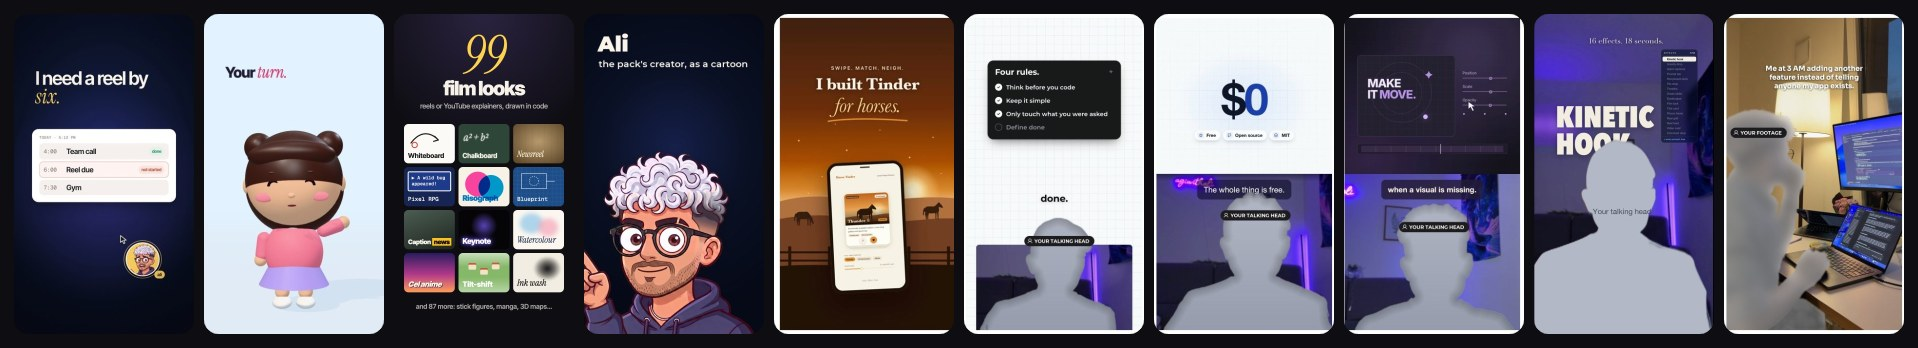
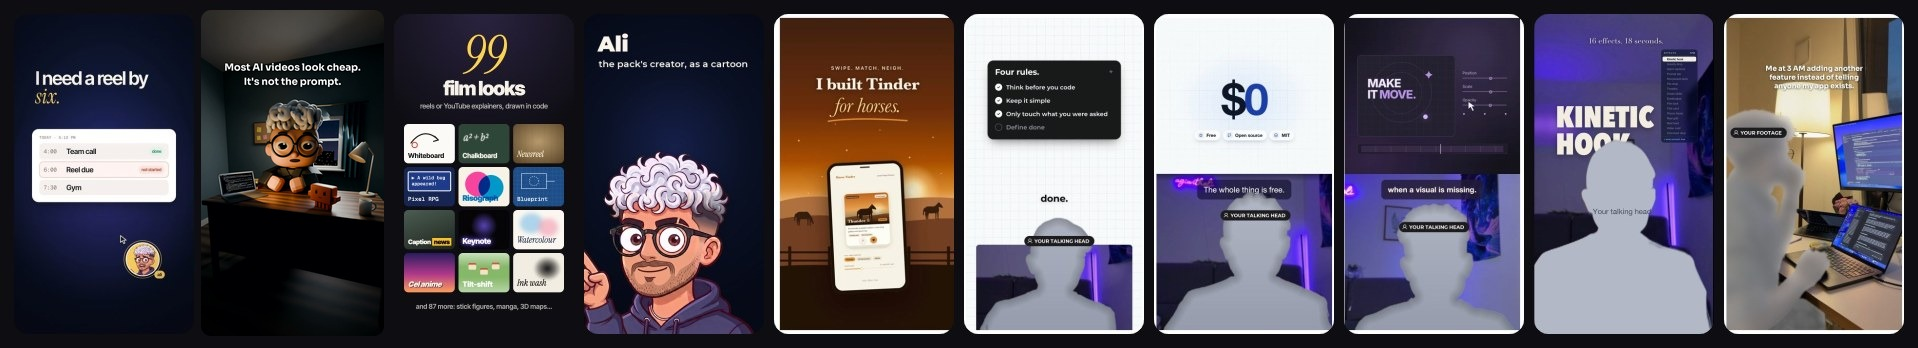
Add the blender-director style, the Blender sitcom in the hero, and the creator-loop graphic
- skills/3-styles-characters/blender-director: direct a narrated 3D episode in Blender from code
  (voices and timeline, lip sync, cameras on words, dark finished lighting, wireframe reveals,
  Cycles settings and timing, sound on the frame). Tile, README cell, example prompt, manifest,
  validator and test shelf; install guide notes Blender 4.2+ (optional).
- Hero: the second tile is now a frame of the Blender sitcom episode made with this skill.
- FavStash section: a 'Complete your loop' graphic (Save, Edit, Post, Learn) and call to action.

Changed region(s): [[0.0923, 0.0287, 0.2153, 0.977]]

diff --git a/skills/3-styles-characters/blender-director/SKILL.md b/skills/3-styles-characters/blender-director/SKILL.md
@@ -1,0 +1,180 @@
+---
+name: blender-director
+description: "Style for edit-video, or on its own: direct a narrated 3D episode in Blender from a script, the way a real two-character sitcom was made entirely in code. Covers the voice pass and timeline, lip sync, set and character staging, cameras that cut on words, dark finished lighting, wireframe reveals, Cycles render settings and timing, and sound that lands on the frame. Needs Blender 4.2 or newer (free). Use when someone wants an animated scene, sitcom episode or character reel made with Blender, or asks how to make AI 3D videos that don't look cheap."
+---
+
+# Blender director
+
+You are the director, the 3D artist and the editor. Every frame is built by a Python script you write and Blender renders. Nothing is generated by a video model, so you control every shot.
+
+The order below is the order that worked. Don't skip ahead to rendering: most of the quality comes from steps 1 to 6.
+
+Target: Blender 4.2 to 4.5, headless (`blender -b --python build.py -- --build`). One build script stages and animates the whole episode from its source files, so any change is a rebuild, not a hand edit.
+
+## 1. Script for the ear, then the eye
+
+- Short lines, one idea each. Two characters trading lines beat one narrator: give the viewer's own question to one character and the answer to the other.
+- Write the delivery next to every line, as a short tag ("[deadpan]", "[alarmed, one word]"). TTS engines read these tags.
+- Mark the one word per line the picture will react to (a cut, a light, a prop). Those words become your timing anchors.
+
+## 2. The voice pass
+
+- Make one TTS take per line, never the whole script in one go: a bad line is then a cheap retake.
+- **Check every take by transcribing it** (Whisper or similar) and comparing the words to the script. TTS doubles words, drops "-ed" and mangles names. Retake until it matches.
+- Spell names the way they should sound in the TTS text, and keep the real spelling in the captions.
+
+## 3. The timeline: place, don't stretch
+
+- Trim each take to its speech and match loudness across lines.
+- Place the lines on a timeline with designed gaps: a long gap before a punchline's reaction, a short one in rapid back-and-forth. **Never time-stretch a voice.**
+- Get word timings from the transcription. Every animation cue keys off them: `W(line, "word")` returns the time a word starts.
+- Save `timeline.json` (lines, words, durations, events). The set, the cameras, the music and the captions all read this one file.
+
+## 4. Lip sync and acting
+
+- **Visemes from letters:** spread each word's letters evenly across its duration and map them to a few mouth shapes:
+
+  | Shape | Letters |
+  |---|---|
+  | AH | a |
+  | EH | e, i, y and most consonants |
+  | OO | o, u, w |
+  | FV | f, v |
+  | MB | m, b, p |
+  | REST | silence |
+
+  Hold each shape for at least two frames, or the mouth flickers.
+- **Look targets:** the listener looks at the speaker, then at whatever the line is about. Smooth head turns by easing toward the target a fifth of the way each frame.
+- **Expressions on beats:** a raised brow on a question, a worried look on bad news, deadpan on the dry line. Switch about 0.1 s before the word.
+- **Blinks** come every 2.4 to 4.2 s from a seeded random generator, so a rebuild gives the same blinks. Never blink mid-word.
+- **Motion:** anticipation before a hop, then a sine arc up and down. Small talking nods while speaking. Nothing starts or stops instantly.
+
+## 5. Set and characters
+
+- Reuse a character kit `.blend` (rigged characters, mouth shapes, expression controls) across episodes. Never edit the kit file: change things in the episode file only.
+- **Fit a set to the characters, not the other way round.** If a set was built at real scale and the kit isn't, append the whole set under one empty and give it a single matrix: translate, then scale (match the desk height), then translate. Never rescale a rig.
+- After appending objects from another file, read their transform from `matrix_basis`. Their `matrix_world` is stale until the scene updates.
+- Clear the spots where the hands and props go: move anything that lands on the laptop or between a character and the camera. Add a front panel under the desk so short legs don't show.
+- **Lived-in beats tidy:** a window with a city at night, a lamp, a mug, books, a cork board and a curtain. Leave space around the faces.
+
+## 6. Cameras: cut on words
+
+- **Make a shot list from the timeline:**
+  - a two-shot to open
+  - a close-up of the speaker on each line
+  - the listener's face for the reaction
+  - a wide shot for a reveal
+  - an insert of the screen or prop when the line names it
+- Cut on spoken words, roughly every 2 to 3 s, about 0.08 s before the line starts.
+- **Movement:**
+  - Every shot pushes in slowly, 5 to 10 % of the distance over its length.
+  - Use one fast, eased push (ease-out cubic) for an emphasis word.
+  - Cameras that track a head aim at the eyes, smoothed so they don't jitter.
+- **Depth of field on every shot**, focused on whoever the shot is about: f/1.6 to f/2 for close-ups, about f/3 for wide shots. If your units are bigger than metres, open the aperture to compensate.
+- Keep camera positions new per episode. Reused angles make platforms flag the video as a duplicate.
+
+## 7. Light: dark and finished, never flat
+
+- **Start from darkness.** Keep a dark room and a dim world, and add motivated light only:
+  - **key:** a warm, soft practical (laptop or desk lamp) on the faces, around 3400 K
+  - **rim:** a cool light from the window behind, around 9000 K, so heads separate from the wall
+  - **hair:** a soft top light from above and behind, which makes hair read (silver hair especially)
+  - **room fill:** about a third of the key, or nothing at all
+- Practicals glow: give the lamp, the screen and the bulbs emission, plus a small light next to each so they really light the set.
+- Colour management: AgX with the Medium High Contrast look and a low exposure (around 0.15 to 0.45). If a test render looks like daytime, remove lights instead of lowering exposure.
+- Keep materials matte with subtle variation. Give skin a little subsurface. Black clothes need no sheen: sheen turns black cloth grey.
+
+## 8. The moves only 3D can do
+
+These are what prove the video is a real 3D scene, not a filter:
+
+- **Wireframe reveal:**
+  - Add a Wireframe modifier (`use_replace=True`) and append an emissive material slot. Set `material_offset` to point at it.
+  - Key `show_render` on and off on the beat.
+  - Make the wire thickness grow with distance, so far objects still read.
+  - Hide curves and very dense meshes (hair fuzz) for that window instead of wiring them.
+  - Snap everything back on one beat.
+- **Light dip:** on the word "light", drop every light and the world strength to 7 % for a third of a second, then relight over half a second.
+- **Prop pop:** scale from 0 with a 12 % overshoot over 0.22 s, a gentle float while it's up, then shrink away.
+
+## 9. Render
+
+- **Storyboard first:** render one draft frame per shot, plus the key beats, at half size. Fix framing there, not in the full render.
+- **Cycles for the finished look:**
+  - GPU, denoising on, adaptive sampling, persistent data on (it skips rebuilding the scene every frame).
+  - **Layered hair and fur shells need `transparent_max_bounces` of 64 to 128.** At the default of 8, rays die inside the hair and it renders dark and speckled.
+- **Time it before you commit:**
+  - Render two full-size frames at 16 and 32 samples. Use the hardest shot, the close-up on hair.
+  - With denoising they usually look the same, and 16 to 20 samples halves the render.
+- **Draft, then final:**
+  - Draft the whole episode at half size and 6 samples, and get the edit approved on that.
+  - Then render the final at full size.
+- **Render to a numbered PNG sequence with overwrite off**, so a crash or a reboot resumes where it stopped. When one late line changes:
+  1. Rebuild the scene.
+  2. Move the frames after the change aside.
+  3. Re-render only the tail.
+  4. Check that one re-rendered frame from before the change matches the original.
+- Run one heavy render at a time on a laptop. Two in parallel run slower than one after the other and can freeze the machine.
+
+## 10. Sound and finish
+
+- **One short sound per visible event:** a click for a light, a tick for each wireframe, a soft pop for a prop, a plop when someone lands. Place each so its loudest attack hits the frame the event first shows (frame = ceil(time × fps)). No whooshes or thuds under dialogue.
+- **Music bed:** quiet (about −24 dB under speech), ducked under words, lifting a little on the final beat.
+- Normalise to −14 LUFS with true peak under −1.5 dBTP.
+- **Captions:** big (around 72 px), short phrases, top third of the frame, inside the phone's safe area. The first line on screen is the text hook and stays from frame 1.
+- Encode 1080×1920 at 30 fps, H.264 High, Rec.709, AAC 48 kHz. Encode once from a high-quality master, never re-encode an upload file.
+
+## 11. Before you call it done
+
+1. Does every take match its script word for word?
+2. Does every shot cut on a word, with DOF on its subject?
+3. Is the room dark with motivated light, and do faces and hair read?
+4. Does each reveal or effect land on its word, and snap back cleanly?
+5. Does hair render properly (enough transparent bounces)?
+6. Did you watch a full draft before rendering the final?
+7. Does every sound sit on its event frame, at −14 LUFS?
+8. Are the captions inside the safe area, with the hook readable at frame 1?
+
+## Python patterns
+
+```python
+import bpy, math
+from mathutils import Vector
+
+def smooth_piecewise(points, t):
+    """[(time, value), ...] -> eased value at t (smoothstep between keys)."""
+    if t <= points[0][0]: return points[0][1]
+    for (a, va), (b, vb) in zip(points, points[1:]):
+        if a <= t <= b:
+            u = 0 if b == a else (t - a) / (b - a); u = u * u * (3 - 2 * u); return va + (vb - va) * u
+    return points[-1][1]
+
+def wire_reveal(objs, f_on, f_off, wire_mat, eye=Vector((0, -3, 1.8))):
+    """Turn meshes into glowing wire from frame f_on to f_off."""
+    done = set()
+    for o in objs:
+        if o.type != 'MESH': continue
+        me = o.data
+        if me.name not in done: me.materials.append(wire_mat); done.add(me.name)
+        m = o.modifiers.new('wire', 'WIREFRAME'); m.use_replace = True
+        m.thickness = max(.0035, .0022 * (o.matrix_world.translation - eye).length)
+        m.material_offset = len(me.materials) - 1
+        for f, on in ((1, False), (f_on - 1, False), (f_on, True), (f_off, False)):
+            m.show_render = on; o.keyframe_insert('modifiers["wire"].show_render', frame=f)
+        for fc in o.animation_data.action.fcurves:
+            for k in fc.keyframe_points: k.interpolation = 'CONSTANT'
+
+def push_camera(cam, look_at, f0, f1, amount):
+    """Slow push toward the subject over a shot."""
+    base = cam.location.copy(); fwd = (Vector(look_at) - base).normalized()
+    for f in (f0, f1):
+        cam.location = base + fwd * amount * (f - f0) / max(1, f1 - f0); cam.keyframe_insert('location', frame=f)
+    cam.location = base
+
+def cycles(scene, samples=20, percent=100):
+    scene.render.engine = 'CYCLES'; c = scene.cycles
+    c.device = 'GPU'; c.samples = samples; c.use_denoising = True; c.use_adaptive_sampling = True
+    c.transparent_max_bounces = 128   # layered hair/fur shells
+    c.max_bounces = 6; scene.render.use_persistent_data = True
+    scene.render.resolution_x, scene.render.resolution_y, scene.render.resolution_percentage = 1080, 1920, percent
+```

diff --git a/README.md b/README.md
@@ -1,18 +1,18 @@
 # FavStash Creator Skills: find ideas, script, edit and publish short videos with Claude Code or Codex
 
-[![Ten looks, every frame drawn by an agent in code: an animated explainer, a 3D chibi girl, 99 film looks, a cartoon of the pack's creator, a product ad and five talking-head styles](assets/hero-styles.jpg)](#pick-a-style)
+[![Ten looks, every frame drawn by an agent in code: an animated explainer, a 3D Blender sitcom scene, 99 film looks, a cartoon of the pack's creator, a product ad and five talking-head styles](assets/hero-styles.jpg)](#pick-a-style)
 
 **Turn your coding agent into a video studio.** Hand it a script and it makes the whole
 video, in code, on your laptop: a Reel, a TikTok, a Short, or a 16:9 explainer for
 YouTube. **99 film looks** (whiteboard, stick figures, cel anime, manga, newsreel, 3D
-maps, tilt-shift, risograph…), a cute 3D character, a lip-synced cartoon of you, and
+maps, tilt-shift, risograph…), a cute 3D character, a Blender 3D sitcom, a lip-synced cartoon of you, and
 five styles for when you are on camera. No camera needed, no video model, no stock
 footage, no subscription. Free and open source, for Claude Code, Codex or any
 skills-aware agent.
 
 - 🎬 **99 film looks**, each a full style guide: layout, type, motion, camera, sound and what goes on the first frame.
 - 📺 **Reels and YouTube.** Every look comes as a 9:16 reel and a 16:9 explainer in chapters.
-- 🧸 **Characters.** A chibi 3D kid, or a cartoon of you made from a few photos with any image AI.
+- 🧸 **Characters.** A chibi 3D kid, a Blender sitcom your agent directs from a script, or a cartoon of you made from a few photos with any image AI.
 - 🎙 **Free voices.** Your own recording, a free local voice, or ElevenLabs, with every word timed.
 - 🔁 **The whole loop.** Find proven ideas, write the script, edit, then publish and learn with [FavStash](https://www.favstash.app/).
 
@@ -23,7 +23,7 @@ Set up FavStash creator skills for my short-form workflow.
 Clone https://github.com/alisadiq-ai/favstash-ai-video-editing-skills and follow:
 https://raw.githubusercontent.com/alisadiq-ai/favstash-ai-video-editing-skills/main/INSTALL_FOR_AGENTS.md
 
-Install all fourteen skills and the local media tools they need in my workspace.
+Install all fifteen skills and the local media tools they need in my workspace.
 Check whether FavStash is connected; if not, connect it with the FavStash CLI
 (Codex or Claude Code) or guide me through sign-in. Verify the setup, then tell
 me how to start my first reel.
@@ -86,7 +86,7 @@ Zoom, the 3D Map Explainer, Isometric Infographic, Line-Art Cutaway or Data Stor
 <table><tr>
 <td width="33%" valign="top"><a href="skills/3-styles-characters/cartoon-character/SKILL.md"><img src="assets/previews/tiles/cartoon-character.jpg" width="100%" alt="Cartoon character: a cartoon of Ali, who made this pack"></a><br><b><a href="skills/3-styles-characters/cartoon-character/SKILL.md">cartoon-character</a></b><br><sub>A lip-synced 2D cartoon that talks, blinks and swaps poses. Two samples ship (Ali and Stashy); make your own from a few photos with any image AI.</sub></td>
 <td width="33%" valign="top"><a href="skills/3-styles-characters/3d-character/SKILL.md"><img src="assets/previews/tiles/3d-character.jpg" width="100%" alt="3D character: a chibi girl waving on a pastel stage"></a><br><b><a href="skills/3-styles-characters/3d-character/SKILL.md">3d-character</a></b><br><sub>A cute 3D chibi boy or girl talks to camera on a pastel stage, with camera cuts on the words. Built in Three.js, no Blender needed.</sub></td>
-<td width="33%" valign="top"></td>
+<td width="33%" valign="top"><a href="skills/3-styles-characters/blender-director/SKILL.md"><img src="assets/previews/tiles/blender-director.jpg" width="100%" alt="Blender director: a silver-haired character and a box mascot at a night desk, lit by a lamp and the city"></a><br><b><a href="skills/3-styles-characters/blender-director/SKILL.md">blender-director</a></b><br><sub>A narrated 3D episode built in Blender from code: lip-synced characters, cameras that cut on words, dark finished lighting and wireframe reveals. Needs Blender (free).</sub></td>
 </tr></table>
 
 ### On camera: you, or your footage
@@ -121,6 +121,11 @@ that works with the sound off.
 ```text
 Use $edit-video with $3d-character to make a 15-second 3D reel where the chibi girl
 announces my launch, with camera cuts on the words and a wave at the end.
+```
+
+```text
+Use $blender-director to turn this two-character script into a 3D episode in Blender,
+in a dark night room, with a wireframe reveal on the line "this whole room is code".
 ```
 
 ```text
@@ -184,7 +189,12 @@ Every skill works on its own. [FavStash](https://www.favstash.app/) closes the l
 your saved reels feed research, approved cuts go to Instagram, TikTok, YouTube or
 LinkedIn, and the analytics pick the next test.
 
-[![FavStash connects Claude Code, Codex and ChatGPT with Instagram, TikTok and YouTube to save inspiration, schedule, publish and analyze short videos](assets/favstash-social-preview-2026.png)](https://www.favstash.app/)
+[![Complete your loop: 1 Save, ideas from your Stash; 2 Edit, your agent edits with these skills; 3 Post, FavStash schedules and runs your calendar; 4 Learn, analytics feed the next reel](assets/creator-loop.png)](https://www.favstash.app/)
+
+**Complete your loop.** These skills make the reel. [FavStash](https://www.favstash.app/)
+adds the other three steps: the reels you save become your ideas, approved cuts go out on
+your calendar, and the numbers pick what you make next. Connect it once and every reel
+makes the next one better.
 
 ## Install
 
@@ -220,7 +230,7 @@ with OAuth ([connection guide](https://www.favstash.app/docs/ai-connect)).
 <details>
 <summary>Install as a Claude plugin</summary>
 
-This repository is also a Claude plugin, `favstash-creator-skills`, with all fourteen
+This repository is also a Claude plugin, `favstash-creator-skills`, with all fifteen
 skills and the FavStash connector. Load it in Claude Code for one session:
 
 ```bash

diff --git a/INSTALL_FOR_AGENTS.md b/INSTALL_FOR_AGENTS.md
@@ -1,6 +1,6 @@
 # Install FavStash creator skills
 
-Use this guide when the user asks to set up this pack. Install the fourteen skills,
+Use this guide when the user asks to set up this pack. Install the fifteen skills,
 prepare the local editing tools and connect FavStash. Reuse what already works;
 ask the user only for a needed workspace choice, system permission or account
 sign-in. This setup does not authorize publishing, scheduling or uploads.
@@ -72,6 +72,10 @@ it takes a matte video from another tool. `animated-explainer` and
 (`hyperframes tts`) needs `kokoro-onnx soundfile`. Skip these when the creator
 only needs the other styles.
 
+`blender-director` renders in [Blender](https://www.blender.org/download/) 4.2 or newer
+(free). Install it only when the creator wants that style; the skill runs it headless
+(`blender -b --python …`).
+
 ## 3. Install the skills for the current agent
 
 Run the [Agent Skills CLI](https://github.com/vercel-labs/skills) **from the creator
@@ -79,12 +83,12 @@ workspace**, using the clone as its source. Choose the actual host identifier
 (for example `codex`, `claude-code` or `cursor`); inspect CLI help for other hosts.
 
 ```bash
-npx --yes skills add "<pack>" --agent <agent-id> --skill find-ideas --skill write-script --skill edit-video --skill adaptive-glass --skill paper-grid --skill breakout-card --skill product-motion-ads --skill text-over-footage --skill animated-explainer --skill 3d-character --skill film-styles --skill cartoon-character --skill publish-and-analyze --copy --yes
+npx --yes skills add "<pack>" --agent <agent-id> --skill find-ideas --skill write-script --skill edit-video --skill adaptive-glass --skill paper-grid --skill breakout-card --skill product-motion-ads --skill text-over-footage --skill animated-explainer --skill 3d-character --skill film-styles --skill cartoon-character --skill blender-director --skill publish-and-analyze --copy --yes
 ```
 
 Install for this project by default. Use global scope only if the user asks for
 availability across projects. Do not target every installed agent. Verify that
-all fourteen skills were installed with their scripts, references and assets
+all fifteen skills were installed with their scripts, references and assets
 (`edit-video`'s SFX, each style's builder, the fonts, the sample characters). Check `npx skills list --agent <agent-id>` from the same
 workspace. If the host needs a reload for discovery, tell the user exactly what
 to reload.
@@ -166,7 +170,7 @@ platforms are ready from one successful call.
 
 Report briefly:
 
-- where the fourteen skills and creator workspace live;
+- where the fifteen skills and creator workspace live;
 - dependency versions and the smoke-render result;
 - whether FavStash is verified, pending sign-in/reload, unavailable or skipped,
   and through which route (CLI bridge or remote MCP);
